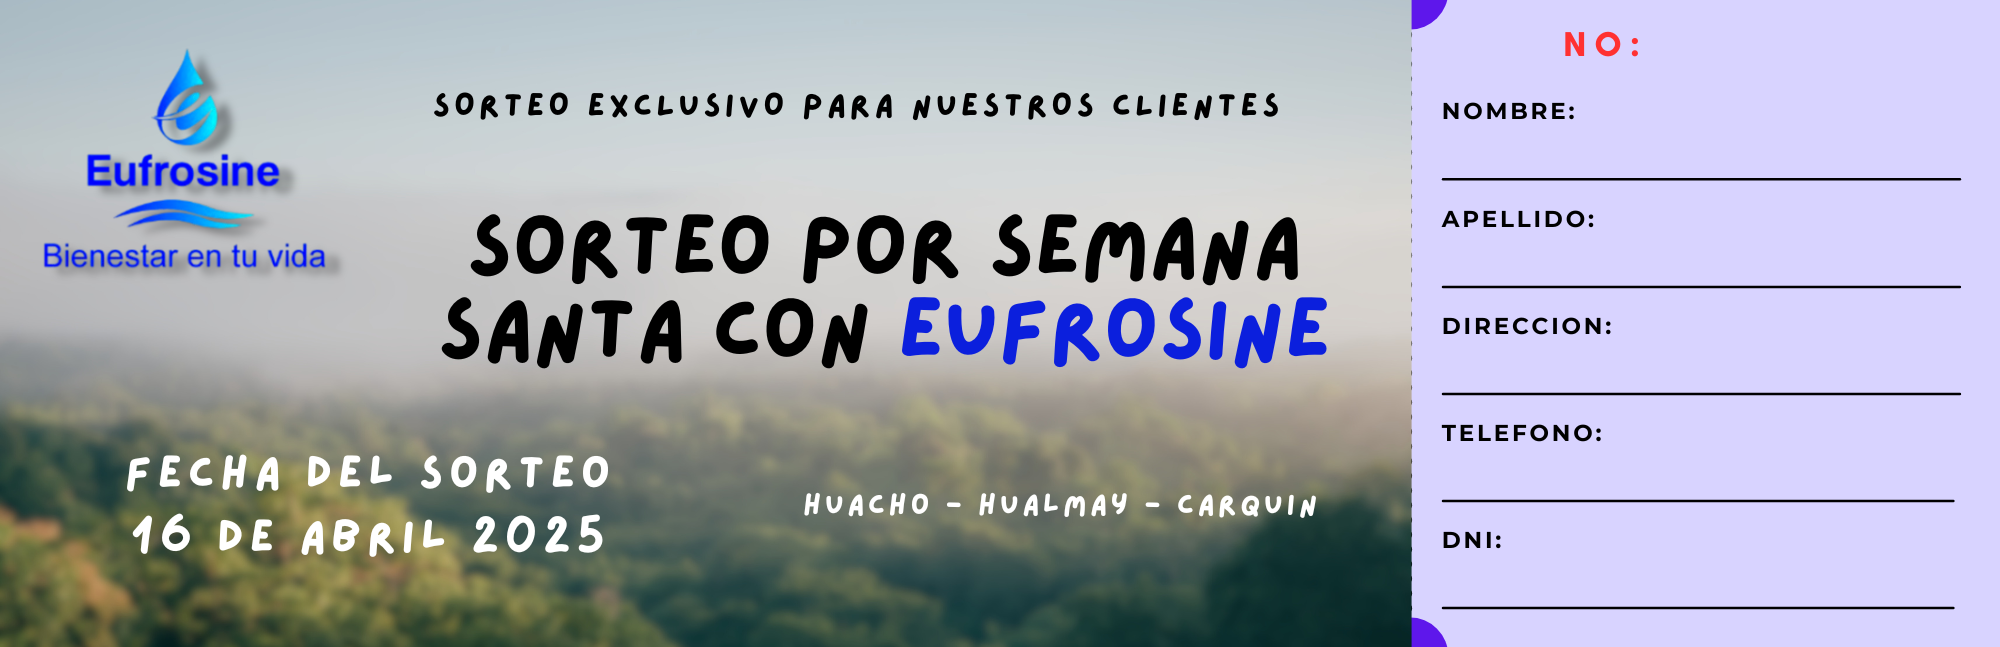
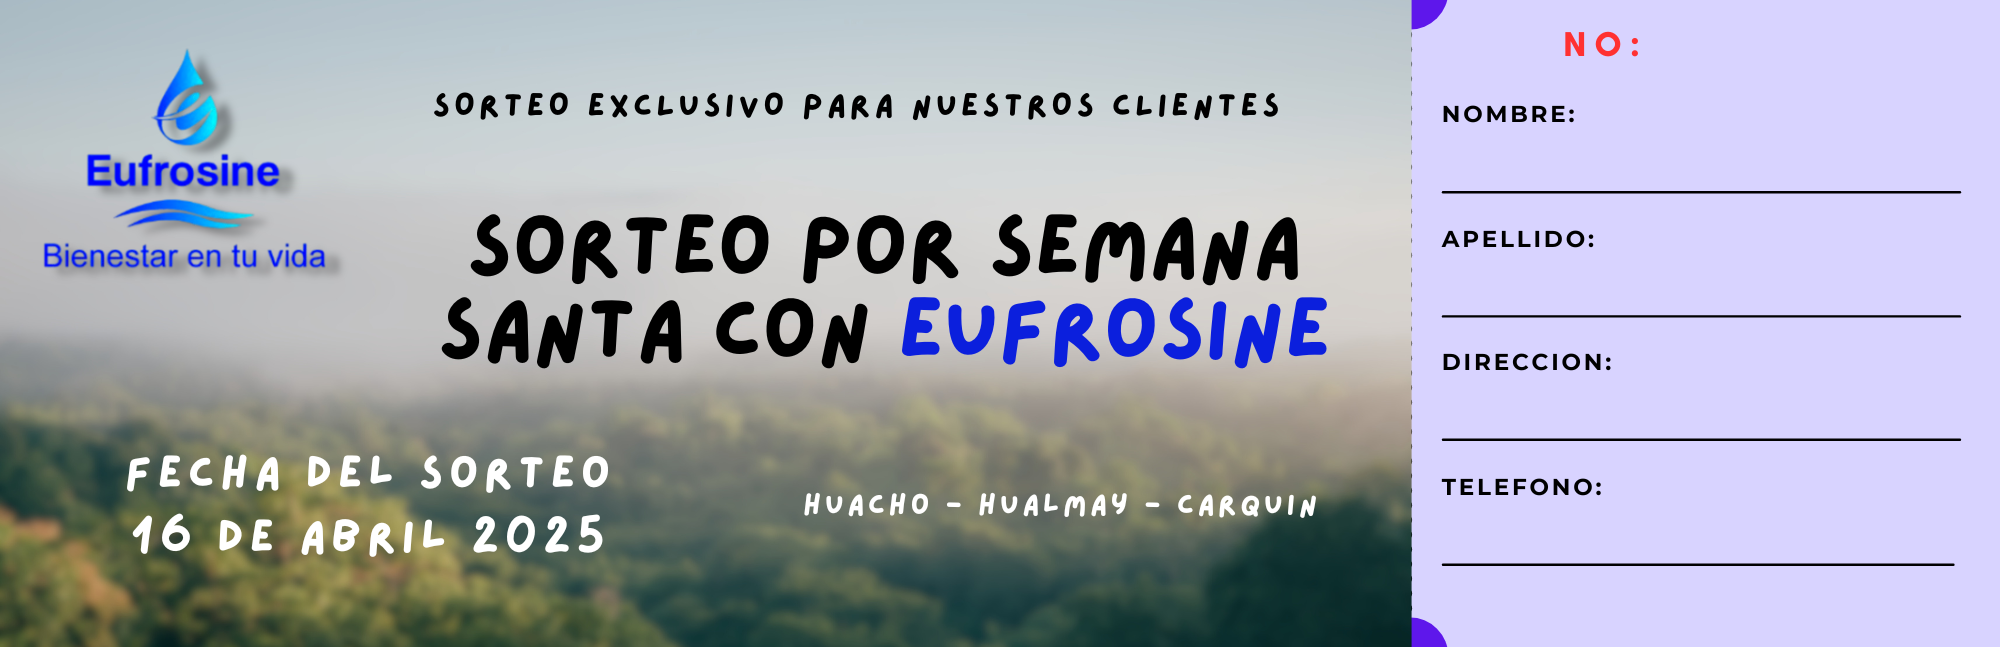
update modify all

diff --git a/src/components/TicketGenerator.jsx b/src/components/TicketGenerator.jsx
@@ -8,11 +8,10 @@ function TicketGenerator() {
   const [formData, setFormData] = useState({
     firstName: "",
     lastName: "",
-    dni: "",
+    address: "", // Reemplazamos DNI por Dirección
     phone: "",
-    address: "", // Nuevo campo para la dirección
   });
-  const [ticketNumber, setTicketNumber] = useState(50);
+  const [ticketNumber, setTicketNumber] = useState(1);
   const [editingIndex, setEditingIndex] = useState(null); // Índice de la fila en edición
   const [expandedRow, setExpandedRow] = useState(null); // Índice de la fila expandida
   const ticketRefs = useRef([]);
@@ -47,12 +46,8 @@ function TicketGenerator() {
 
   // Agregar una nueva persona a la lista
   const addPerson = () => {
-    if (!formData.firstName || !formData.lastName || !formData.dni || !formData.phone || !formData.address) {
+    if (!formData.firstName || !formData.lastName || !formData.address || !formData.phone) {
       alert("Por favor, llena todos los campos.");
-      return;
-    }
-    if (!/^\d{8}$/.test(formData.dni)) {
-      alert("El DNI debe tener 8 dígitos numéricos.");
       return;
     }
     if (!/^\d+$/.test(formData.phone)) {
@@ -74,7 +69,7 @@ function TicketGenerator() {
     localStorage.setItem("ticketNumber", ticketNumber + 1);
 
     setTicketNumber(ticketNumber + 1);
-    setFormData({ firstName: "", lastName: "", dni: "", phone: "", address: "" }); // Limpiar el campo de dirección
+    setFormData({ firstName: "", lastName: "", address: "", phone: "" }); // Limpiar el campo de dirección
   };
 
   // Formatear fecha y hora
@@ -97,11 +92,11 @@ function TicketGenerator() {
         Ticket: person.ticketNumber,
         Nombres: person.firstName,
         Apellidos: person.lastName,
-        DNI: person.dni,
+        Dirección: person.address, // Mostrar Dirección en lugar de DNI
         Teléfono: person.phone,
-        Dirección: person.address, // Incluir la dirección en el Excel
         "Fecha y Hora": formatDateTime(person.createdAt),
       }));
+
       const worksheet = XLSX.utils.json_to_sheet(dataForExcel);
       const workbook = XLSX.utils.book_new();
       XLSX.utils.book_append_sheet(workbook, worksheet, "Tickets");
@@ -164,9 +159,9 @@ function TicketGenerator() {
           />
           <input
             type="text"
-            name="dni"
-            placeholder="DNI"
-            value={formData.dni}
+            name="address"
+            placeholder="Dirección" // Cambiamos DNI por Dirección
+            value={formData.address}
             onChange={handleChange}
             className="p-2 border rounded m-2 w-full"
           />
@@ -175,14 +170,6 @@ function TicketGenerator() {
             name="phone"
             placeholder="Teléfono"
             value={formData.phone}
-            onChange={handleChange}
-            className="p-2 border rounded m-2 w-full"
-          />
-          <input
-            type="text"
-            name="address"
-            placeholder="Dirección"
-            value={formData.address}
             onChange={handleChange}
             className="p-2 border rounded m-2 w-full"
           />
@@ -200,9 +187,8 @@ function TicketGenerator() {
           <div className="p-4 border rounded bg-gray-100">
             <p className="text-gray-800 font-bold"><strong>Nombres:</strong> {formData.firstName}</p>
             <p className="text-gray-800 font-bold"><strong>Apellidos:</strong> {formData.lastName}</p>
-            <p className="text-gray-800 font-bold"><strong>DNI:</strong> {formData.dni}</p>
+            <p className="text-gray-800 font-bold"><strong>Dirección:</strong> {formData.address}</p> {/* Mostrar Dirección */}
             <p className="text-gray-800 font-bold"><strong>Teléfono:</strong> {formData.phone}</p>
-            <p className="text-gray-800 font-bold"><strong>Dirección:</strong> {formData.address}</p>
           </div>
         </div>
       </div>
@@ -224,9 +210,8 @@ function TicketGenerator() {
               <th className="border border-gray-300 p-2">Ticket</th>
               <th className="border border-gray-300 p-2">Nombres</th>
               <th className="border border-gray-300 p-2">Apellidos</th>
-              <th className="border border-gray-300 p-2">DNI</th>
+              <th className="border border-gray-300 p-2">Dirección</th> {/* Cambiamos DNI por Dirección */}
               <th className="border border-gray-300 p-2">Teléfono</th>
-              <th className="border border-gray-300 p-2">Dirección</th>
               <th className="border border-gray-300 p-2">Fecha y Hora</th>
               <th className="border border-gray-300 p-2">Acciones</th>
             </tr>
@@ -264,12 +249,12 @@ function TicketGenerator() {
                     {editingIndex === index ? (
                       <input
                         type="text"
-                        value={person.dni}
-                        onChange={(e) => updatePerson(index, "dni", e.target.value)}
+                        value={person.address}
+                        onChange={(e) => updatePerson(index, "address", e.target.value)}
                         className="p-1 border rounded w-full"
                       />
                     ) : (
-                      person.dni
+                      person.address
                     )}
                   </td>
                   <td className="border border-gray-300 p-2">
@@ -282,18 +267,6 @@ function TicketGenerator() {
                       />
                     ) : (
                       person.phone
-                    )}
-                  </td>
-                  <td className="border border-gray-300 p-2">
-                    {editingIndex === index ? (
-                      <input
-                        type="text"
-                        value={person.address}
-                        onChange={(e) => updatePerson(index, "address", e.target.value)}
-                        className="p-1 border rounded w-full"
-                      />
-                    ) : (
-                      person.address
                     )}
                   </td>
                   <td className="border border-gray-300 p-2">{formatDateTime(person.createdAt)}</td>
@@ -323,7 +296,7 @@ function TicketGenerator() {
                 </tr>
                 {expandedRow === index && (
                   <tr>
-                    <td colSpan="8" className="p-4">
+                    <td colSpan="7" className="p-4">
                       <div className="flex flex-col items-center">
                         {/* Ticket con diseño */}
                         <div ref={(el) => (ticketRefs.current[index] = el)} className="relative w-[900px] h-[300px]">
@@ -331,11 +304,10 @@ function TicketGenerator() {
                           <img src={ticketImage} alt="Ticket" className="w-full h-full" />
                           {/* Datos sobre el ticket */}
                           <div className="absolute top-1.5 right-20 text-red-500 font-bold text-lg">{person.ticketNumber}</div>
-                          <div className="absolute bottom-56.5 right-15 text-black font-semibold text-sm">{person.firstName}</div>
-                          <div className="absolute bottom-44.5 right-18 text-black font-semibold text-sm">{person.lastName}</div>
-                          <div className="absolute bottom-4.5 right-4 text-black font-semibold text-sm">{person.address}</div>
-                          <div className="absolute bottom-19 right-22 text-black font-semibold text-sm">{person.phone}</div>
-                          <div className="absolute bottom-31.5 right-25 text-black font-semibold text-sm">{person.dni}</div>
+                          <div className="absolute bottom-53.5 right-25 text-black font-semibold">{person.firstName}</div>
+                          <div className="absolute bottom-39.5 right-20 text-black font-semibold">{person.lastName}</div>
+                          <div className="absolute bottom-25.5 right-25 text-black font-semibold">{person.address}</div> {/* Mostrar Dirección */}
+                          <div className="absolute bottom-11.5 right-22 text-black font-semibold">{person.phone}</div>
                         </div>
                         {/* Botón para descargar el ticket */}
                         <button
